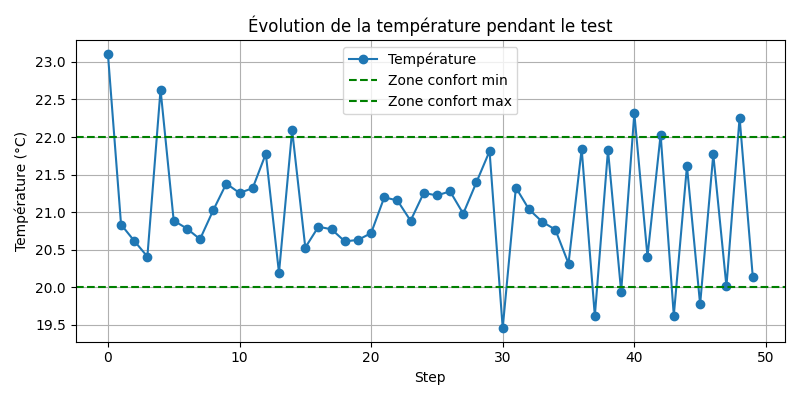
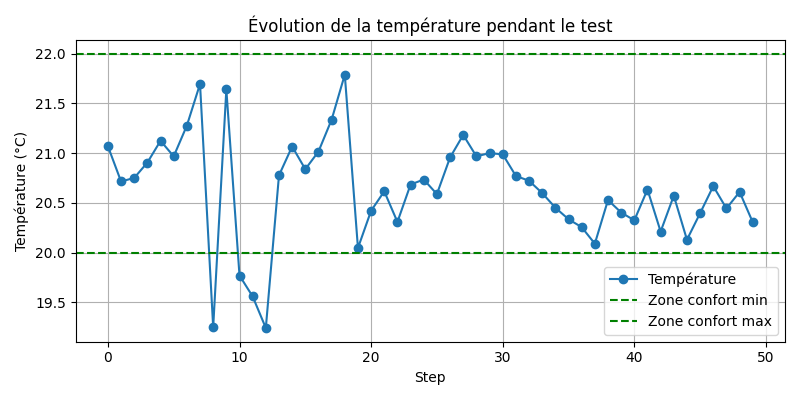
changer l'episode de 100 a 200 dans la focntion entrainer

diff --git a/main.py b/main.py
@@ -212,7 +212,7 @@ if __name__ == "__main__":
     print("="*50 + "\n")
     
     # 1. ENTRAÎNER
-    q_table = entrainer(episodes=100)
+    q_table = entrainer(episodes=200)
     
     # 2. TESTER
     tester(q_table)
